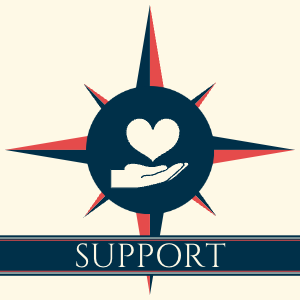
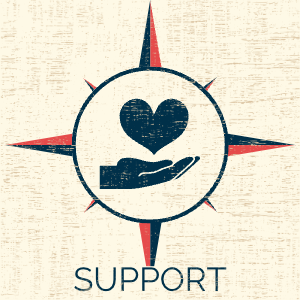
updated tile design and venmo donation link

diff --git a/client/src/pages/about.js b/client/src/pages/about.js
@@ -92,86 +92,41 @@ function About() {
         </p>
       </div>
       <div className="page_content_container">
-        <h2 className="page_content_header">Our Board of Directors</h2>
+        <h2 className="page_content_header">Meet the People</h2>
+        <h2 className="page_content_subheader">Discovery House Board</h2>
         <h4 className="board_member">
           Bob Shaw ⎯ <em>Present of Board</em>
         </h4>
-        <p className="page_content_text">
-          President of Board - former owner of Shaw’s of Okoboji, member St.
-          Mary’s Catholic Church.
-        </p>
-        <h4 className="board_member">
-          Beth Will ⎯ <em>Vice Present of Board</em>
-        </h4>
-        <p className="page_content_text">
-          Dickinson County Board of Health Director, Elderbridge Board of
-          Directors, Spirit Lake United Methodist Church member.
-        </p>
-        <h4 className="board_member">
-          Jessica Amendt ⎯ <em>Director</em>
-        </h4>
-        <p className="page_content_text">
-          She is pretty cool. I worked with her. Now she has a much better job.
-        </p>
+        <p className="page_content_text">This is a quote</p>
         <h4 className="board_member">
           Kurt Wiegers ⎯ <em>Treasurer</em>
         </h4>
-        <p className="page_content_text">
-          This is something interesting about Kurt.
-        </p>
+        <p className="page_content_text">This is a quote</p>
         <h4 className="board_member">
-          Meghan Solma ⎯ <em>Secratary of Board</em>
+          Mick McCleery ⎯ <em>Board Member</em>
         </h4>
-        <p className="page_content_text">
-          Secretary of Board - Board member of People for Pets.
-        </p>
-        <h4 className="board_member">
-          Carol Lee ⎯ <em>Board Member</em>
-        </h4>
-        <p className="page_content_text">Retired School Teacher</p>
-        <h4 className="board_member">
-          Chris Spaeth ⎯ <em>Board Member</em>
-        </h4>
-        <p className="page_content_text">
-          VP Sales and Marketing, Energy Panel Structures, Graettinger, Iowa,
-          St. Mary's Catholic Church member.
-        </p>
+        <p className="page_content_text">This is a quote</p>
         <h4 className="board_member">
           Gary Caviness ⎯ <em>Board Member</em>
         </h4>
-        <p className="page_content_text">There is some info about Gary.</p>
+        <p className="page_content_text">This is a quote</p>
         <h4 className="board_member">
-          John E. Kerber ⎯ <em>Board Member</em>
+          Beth Will ⎯ <em>Board Member</em>
         </h4>
-        <p className="page_content_text">
-          Owner Kerber Milling Company, Emmetsburg Methodist Church member,
-          Chairman Trustees.
-        </p>
+        <p className="page_content_text">This is a quote</p>
         <h4 className="board_member">
-          Matt Warnke ⎯ <em>Board Member</em>
+          Donna Davis ⎯ <em>Board Member</em>
         </h4>
-        <p className="page_content_text">
-          Immanuel Lutheran Church member, American Legion member.
-        </p>
+        <p className="page_content_text">This is a quote</p>
+        <h2 className="page_content_subheader">Discovery House Staff</h2>
         <h4 className="board_member">
-          Norm Erickson ⎯ <em>Board Member</em>
+          Jessica Amendt ⎯ <em>Executive Program Director</em>
         </h4>
-        <p className="page_content_text">
-          Something interesting about Norm goes here!
-        </p>
+        <p className="page_content_text">This is a quote</p>
         <h4 className="board_member">
-          Norman "Norm" Meinking ⎯ <em>Board Member</em>
+          Shelby Reese ⎯ <em>Assistant Director</em>
         </h4>
-        <p className="page_content_text">
-          Kiwanis member, Dickinson County Historical Society member,
-          Presbyterian Church member, Okoboji Foundation supporter.
-        </p>
-        <h4 className="board_member">
-          Patty Steffens ⎯ <em>Board Member</em>
-        </h4>
-        <p className="page_content_text">
-          Patty has an interesting tidbit that lives on this line!
-        </p>
+        <p className="page_content_text">This is a quote</p>
       </div>
     </div>
   )

diff --git a/client/src/components/feed.jsx b/client/src/components/feed.jsx
@@ -2,9 +2,6 @@ import { useState, useEffect } from "react"
 import { BASE_URL } from "../globals"
 import axios from 'axios'
 
-//TODO:: restyle feed page
-//Add fields to model for url sharing and image sharing
-
 function Feed() {
 const [feed, setFeed] = useState([{}])
 useEffect(() => {
@@ -14,8 +11,6 @@ useEffect(() => {
   }
   loadFeed()
 }, [])
-
-const shareLink = "localhost:3000/announcements/"
 
   return (
     <div>
@@ -27,7 +22,7 @@ const shareLink = "localhost:3000/announcements/"
           <p className="feed_link"><a href={post.link}>{post.linkTitle}</a></p>
           <br/>
           <img src={post.img}/>
-          <p className="post_date">{new Date(post.createdAt).toLocaleString(
+          <p className="post_date">Posted: {new Date(post.createdAt).toLocaleString(
             "en-US",
             {
               month: "short",
@@ -35,8 +30,6 @@ const shareLink = "localhost:3000/announcements/"
               year: "numeric"
             }
           )}</p>
-          <p className="post_date">Share this</p>
-          <a href={`${shareLink}#${post.id}`}>FACEBOOK</a>
         </div>
       )}
     </div>

diff --git a/client/src/pages/donate.js b/client/src/pages/donate.js
@@ -1,8 +1,13 @@
 import HomeLink from '../components/homeLink'
 import Contact from '../components/contact'
-import venmo_icon from '../elements/venmo-icon.png'
+import venmo_icon from '../elements/qr.png'
 
 function Donate() {
+  const exitAlert = () => {
+    alert(
+      'You are now leaving the Discovery House page and navigating to an external website.'
+    )
+  }
   return (
     <div className="page">
       <HomeLink />
@@ -29,6 +34,16 @@ function Donate() {
           <div id="paypal_container">
             <img src={venmo_icon} id="paypal" />
           </div>
+          <p className="page_content_text">
+            Scan the code above or visit our &nbsp;
+            <a
+              onClick={exitAlert}
+              href="https://account.venmo.com/u/discoveryhouse"
+            >
+              Venmo page
+            </a>
+            .
+          </p>
           <p className="donation_type">Donate by Mail</p>
           <p className="page_content_text">
             Mail contributions to:

diff --git a/client/src/App.css b/client/src/App.css
@@ -240,6 +240,11 @@ a:visited {
   text-align: left;
 }
 
+.page_content_text a {
+  color: #0170ac;
+  text-decoration: underline;
+}
+
 .board_member {
   width: 85%;
   color: #E54B4B;
@@ -303,7 +308,9 @@ a:visited {
   margin-bottom: 30px;
 }
 #paypal {
-  width: 200px;
+  width: 375px;
+  transform: rotate(90deg);
+  padding-top: 65px;
 }
 
 .links_container{
